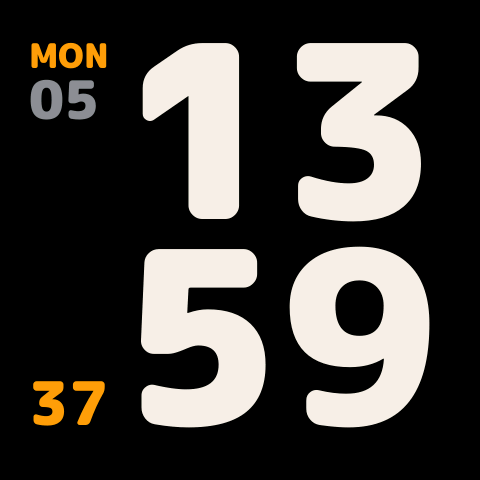
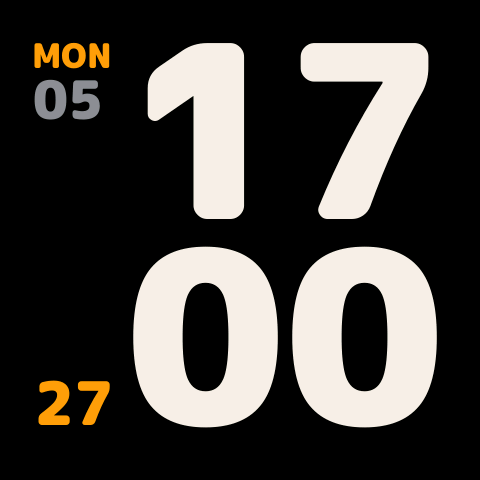
docs: describe the review fixes, new screenshots
README (both languages): 12-character hotspot password, settings
changes only from the page itself (X-Clock header, local host names),
burn-in protection without a valid time and on the setup page, .env
comment rule, the rtc command's phase output, the generator's layout
checks, date width by ink, how the RTC is set, measured memory and
build times. New screenshots of both clock layouts and the setup page.

diff --git a/README.md b/README.md
@@ -13,14 +13,14 @@ The screenshots are read back from a real board with `tools/screenshot.py`; the 
 ## Features
 
 - Hours and minutes in tabular digits, aligned column by column; seconds in small type at the minutes' lower corner.
-- Weekday and day of month at the top of the side column. The day always has two digits and one fixed size, chosen so the two digits together are as wide as "SUN". AM/PM in 12-hour mode.
+- Weekday and day of month at the top of the side column. The day always has two digits and one fixed size, chosen so the widest day is as wide as "SUN"; both sit with their ink on the column's outer edge. AM/PM in 12-hour mode.
 - Time sync over NTP every hour, with up to three servers you can edit (defaults `tock.stdtime.gov.tw`, `time.stdtime.gov.tw`, `pool.ntp.org`). Each sync is also written to the PCF85063 RTC, and the clock starts from the RTC time after a restart, so it keeps working without Wi-Fi.
 - Eight brightness levels, remembered separately for day and night; automatic night dimming (default 23:00–07:00).
 - Screen-off schedule (default 03:00–09:00): the panel is off in that window; a button press or a tap shows the clock for 30 s.
 - Auto-rotation from the accelerometer, or a fixed orientation.
-- Burn-in protection: the whole face drifts 1 px every minute around a 12 × 12 loop (offsets −6…+5 px); every hour the side column swaps sides and the digits move 92 px; warm white instead of pure white; night dimming; screen-off schedule.
-- Wi-Fi setup from a phone: the clock opens its own hotspot and shows a QR code to join it; the setup page opens by itself (captive portal).
-- Settings page at `http://clock.local` in Traditional Chinese or English (follows the browser language; switch at the top right).
+- Burn-in protection: the whole face drifts 1 px every minute around a 12 × 12 loop (offsets −6…+5 px); every hour the side column swaps sides and the digits move 92 px; warm white instead of pure white; night dimming; screen-off schedule. Without a valid time ("--") the face still drifts every minute and swaps sides every hour of uptime; the Wi-Fi setup page drifts too and drops to the night brightness after 10 minutes without a press or tap.
+- Wi-Fi setup from a phone: the clock opens its own hotspot (random 12-character password) and shows a QR code to join it; the setup page opens by itself (captive portal).
+- Settings page at `http://clock.local` in Traditional Chinese or English (follows the browser language; switch at the top right). Changes are accepted only from the page itself, not from other web sites.
 - Indicators: orange `SYNC` when the last NTP sync is more than 24 h old (or none succeeded in the first 5 minutes after start-up), red `BATT` when the battery is at 15 % or less without USB power.
 
 ## Hardware
@@ -52,7 +52,7 @@ While the screen is off, the first press or tap only wakes it. Inside the screen
 
 ## Build and flash
 
-You need Python 3 (tested with 3.14) and a USB-C data cable. On the first build PlatformIO downloads the toolchain into `~/.platformio` (about 7 GB on the test machine), so that run depends on your connection. After that, on the test machine (Apple M4), a full build from a fresh clone took 34 s and a rebuild after a small change about 10 s.
+You need Python 3 (tested with 3.14) and a USB-C data cable. On the first build PlatformIO downloads the toolchain into `~/.platformio` (about 7 GB on the test machine), so that run depends on your connection. After that, on the test machine (Apple M4), a full build from a fresh clone took 34–39 s and a rebuild after a small change about 10 s.
 
 macOS / Linux:
 
@@ -87,14 +87,16 @@ To restore it later, run the same command with `write-flash 0 backup/original-fl
 
 Either of these works; whichever was changed last wins.
 
-1. **`.env` file**: copy `.env.example` to `.env`, fill in `WIFI_SSID` and `WIFI_PASSWORD`, and flash again. Quote values that contain spaces or `#`. The file is never committed; `scripts/pio_env.py` turns it into a header inside the build directory only.
-2. **From a phone**: when there is no Wi-Fi and no valid time, the clock starts its setup hotspot by itself; otherwise hold BOOT for 3 s. Scan the QR code on the screen to join `Clock-XXXX` (the password is random and shown on the screen). The setup page opens by itself; if it does not, open `http://192.168.4.1`.
+1. **`.env` file**: copy `.env.example` to `.env`, fill in `WIFI_SSID` and `WIFI_PASSWORD`, and flash again. Quote values that contain spaces or `#`; outside quotes, a `#` after a space starts a comment. The file is never committed; `scripts/pio_env.py` turns it into a header inside the build directory only.
+2. **From a phone**: when there is no Wi-Fi and no valid time, the clock starts its setup hotspot by itself; otherwise hold BOOT for 3 s. Scan the QR code on the screen to join `Clock-XXXX` (the password is random, 12 characters, and shown on the screen). The setup page opens by itself; if it does not, open `http://192.168.4.1`. If the connection fails, the hotspot stays open so you can correct the settings.
 
 After it has joined your network, the settings page is at `http://clock.local` (or the IP shown on the status page).
 
 ## Settings page
 
 Wi-Fi, time zone, 12/24-hour clock, date on/off, three time servers, day and night brightness, night hours, screen-off hours, hourly side swap and orientation. The page never sends the saved Wi-Fi password back to the browser. Anyone on the same network can open it.
+
+Changes are accepted only from the page itself: it sends an `X-Clock` header that pages from other web sites cannot add, and its API answers only requests addressed to an IP address, a name without dots or a local-only name such as `clock.local` (this also stops DNS rebinding). Open the page at `http://clock.local` or at the clock's IP address.
 
 ## Serial console and screenshots
 
@@ -103,7 +105,7 @@ Wi-Fi, time zone, 12/24-hour clock, date on/off, three time servers, day and nig
 .venv/bin/python tools/screenshot.py shot.png
 ```
 
-Commands (type `help`): `status`, `shot`, `btn boot|key|pwr|touch [short|long]`, `level <1-8>`, `rot auto|0|1|2|3`, `page clock|status|setup`, `settime <unix-epoch>`, `ntp`, `rtc`, `imu`, `reboot`, `factory yes`. The tools find the port by themselves on macOS and Linux; add `--port` to choose one.
+Commands (type `help`): `status`, `shot`, `btn boot|key|pwr|touch [short|long]`, `level <1-8>`, `rot auto|0|1|2|3`, `page clock|status|setup`, `settime <unix-epoch>`, `ntp`, `rtc` (RTC time, and where its tick falls against the system clock's second), `imu`, `reboot`, `factory yes`. The tools find the port by themselves on macOS and Linux; add `--port` to choose one.
 
 ## Using another font
 
@@ -114,7 +116,7 @@ The digits and text are pre-rendered from a TrueType font. To use another one:
 .venv/bin/pio run -t upload
 ```
 
-The layout (column widths, date size, positions) is recalculated for the new font, and the generator stops with an error if any glyph would come closer than 12 px to the screen edge at the largest drift. Check the font's license before publishing it.
+The layout (column widths, date size, positions) is recalculated for the new font. The generator stops with an error if any glyph would come closer than 12 px to the screen edge at the largest drift, or if digits, the two rows or the side-column text would overlap. Check the font's license before publishing it.
 
 ## Specifications
 
@@ -122,19 +124,20 @@ The layout (column widths, date size, positions) is recalculated for the new fon
 |---|---|---|
 | Font | M PLUS Rounded 1c Black | Hours/minutes 176 px cap height, seconds 44 px, weekday 25 px, date 39 px, UI text 22 px; ASCII only |
 | Layout | Digit columns 159 px; baselines y = 225 / 431; side column 80 px | Digits at x = 35 (column right) or x = 127 (column left) |
-| Date | Two tabular digits, 35 px each = 70 px | Same as the ink width of "SUN" (70 px) |
+| Date | Two tabular digits in 35 px cells; the widest day is 68 px of ink | "SUN" is 67 px of ink; the day is placed by its ink on the column edge, like the weekday |
 | Edge margin | ≥ 29 px left, 30 right, 40 top, 41 bottom | At the largest drift, both sides, all digits and labels |
 | Rendering | 480 × 32 px bands, only changed areas redrawn | The ESP32-C6 has no PSRAM for a full 450 KB frame |
 | Time sync | SNTP every 3600 s, up to 3 servers | Host names or IPv4 addresses (letters, digits, `.`, `-`, up to 63 characters); all empty restores the defaults |
 | RTC | PCF85063 kept in UTC, marker byte 0xC7 in its RAM register | Ignored when the marker is missing, the oscillator-stop flag is set, or the time is more than a day before the firmware build date |
+| RTC setting | Written with STOP held; STOP released at x.500 s | The RTC on this board ticks 0.500 s after the release (datasheet: 0.507813–0.507935 s); its tick then falls +1…+3 ms after the system clock's second (`rtc` command) |
 | Brightness | 8 levels: 3, 8, 16, 30, 55, 95, 160, 255 (register 0x51) | Saved to flash 5 s after the last change |
 | Night dimming | Default 23:00–07:00 | Same start and end disables it; may cross midnight |
 | Screen-off schedule | Default on, 03:00–09:00 | Switches only at the window edges; 30 s on after a press; never during Wi-Fi setup |
 | Orientation | QMI8658, > 0.5 g held for 0.7 s | Lying flat keeps the last orientation |
 | Wi-Fi retry | 10 s, doubling up to 5 min | An attempt with no answer for 30 s counts as failed |
 | Wi-Fi power save | Off on USB power, on with battery only | Keeps `clock.local` responsive |
-| Setup hotspot | `Clock-` + last 2 MAC bytes, WPA2, random 8-digit password, 192.168.4.1 | Closes 8 s after a successful connection, or after 10 min idle if Wi-Fi is already configured |
-| Memory | RAM 25.2 % (82,528 / 327,680 B), flash 25.5 % (1,671,292 / 6,553,600 B) | Fresh clone without `.env`, 2026-10-05 |
+| Setup hotspot | `Clock-` + last 2 MAC bytes, WPA2, random 12-character password (31 symbols, no 0/o/1/l/i), 192.168.4.1 | Closes 8 s after a successful connection, or after 10 min without web requests if Wi-Fi is configured and nothing was tried in this session |
+| Memory | RAM 25.2 % (82,592 / 327,680 B), flash 24.4 % (1,601,768 / 6,553,600 B) | Fresh clone without `.env`, 2026-10-05 |
 
 ## Credits
 

diff --git a/README.zh-TW.md b/README.zh-TW.md
@@ -13,14 +13,14 @@
 ## 功能
 
 - 時、分使用等寬數字，上下兩列逐欄對齊；秒數以小字放在分鐘旁的下角。
-- 側欄上方顯示星期與日期。日期固定兩位數、固定字級，兩個數字合起來的寬度與「SUN」相同；12 小時制時加上 AM／PM。
+- 側欄上方顯示星期與日期。日期固定兩位數、固定字級，最寬的日期與「SUN」同寬；星期與日期都以實際字跡貼齊側欄外緣。12 小時制時加上 AM／PM。
 - 每小時透過 NTP 對時，最多 3 個伺服器、可在網頁自行填寫（預設 `tock.stdtime.gov.tw`、`time.stdtime.gov.tw`、`pool.ntp.org`）。每次對時也會寫入 PCF85063 RTC，重新開機時先採用 RTC 的時間，所以沒有 Wi-Fi 也能正常走時。
 - 亮度 8 段，白天、夜間各自記憶；夜間時段自動調暗（預設 23:00–07:00）。
 - 定時關閉螢幕（預設 03:00–09:00）：時段內螢幕關閉，按任一鍵或輕觸會亮 30 秒。
 - 重力感應自動旋轉，或固定為某一方向。
-- 防烙印：整個畫面每分鐘移動 1 像素，走 12 × 12 的封閉迴圈（位移 −6～+5 px）；側欄每小時左右換邊，大數字隨之移動 92 px；使用暖白色而非純白；夜間調暗；定時關閉。
-- 用手機設定 Wi-Fi：時鐘會開啟自己的熱點並在螢幕顯示 QR code，連上後設定頁自動跳出（captive portal）。
-- 設定網頁 `http://clock.local`，可切換繁體中文／English（預設跟隨瀏覽器語言，右上角切換）。
+- 防烙印：整個畫面每分鐘移動 1 像素，走 12 × 12 的封閉迴圈（位移 −6～+5 px）；側欄每小時左右換邊，大數字隨之移動 92 px；使用暖白色而非純白；夜間調暗；定時關閉。沒有有效時間（顯示「--」）時仍每分鐘移動、依開機時數每小時換邊；Wi-Fi 設定頁也會移動，10 分鐘沒有按鍵或輕觸就降到夜間亮度。
+- 用手機設定 Wi-Fi：時鐘會開啟自己的熱點（12 字元隨機密碼）並在螢幕顯示 QR code，連上後設定頁自動跳出（captive portal）。
+- 設定網頁 `http://clock.local`，可切換繁體中文／English（預設跟隨瀏覽器語言，右上角切換）。只接受從本頁送出的修改，其他網站無法代送。
 - 提示：距上次對時超過 24 小時（或開機 5 分鐘內都沒有對時成功）顯示橘色 `SYNC`；只用電池且電量 15% 以下顯示紅色 `BATT`。
 
 ## 使用硬體
@@ -52,7 +52,7 @@
 
 ## 編譯與燒錄
 
-需要 Python 3（以 3.14 測試）與可傳資料的 USB-C 線。第一次編譯時 PlatformIO 會把工具鏈下載到 `~/.platformio`（測試機上約 7 GB），所需時間視網路而定。之後在測試機（Apple M4）上，從全新 clone 完整編譯 34 秒，小改動後重新編譯約 10 秒。
+需要 Python 3（以 3.14 測試）與可傳資料的 USB-C 線。第一次編譯時 PlatformIO 會把工具鏈下載到 `~/.platformio`（測試機上約 7 GB），所需時間視網路而定。之後在測試機（Apple M4）上，從全新 clone 完整編譯 34–39 秒，小改動後重新編譯約 10 秒。
 
 macOS／Linux：
 
@@ -87,14 +87,16 @@ mkdir -p backup
 
 以下兩種擇一，以最後一次修改的為準。
 
-1. **`.env` 檔**：把 `.env.example` 複製成 `.env`，填入 `WIFI_SSID` 和 `WIFI_PASSWORD` 後重新燒錄。值含空白或 `#` 時用雙引號包起來。`.env` 不會進版控，`scripts/pio_env.py` 只會把它轉成 build 目錄裡的標頭檔。
-2. **用手機**：沒有 Wi-Fi 設定且沒有有效時間時，時鐘會自動開啟設定熱點；其他時候長按 BOOT 3 秒。用手機相機掃螢幕上的 QR code 加入 `Clock-XXXX`（密碼每次隨機並顯示在螢幕上），設定頁會自動跳出；沒跳出就開 `http://192.168.4.1`。
+1. **`.env` 檔**：把 `.env.example` 複製成 `.env`，填入 `WIFI_SSID` 和 `WIFI_PASSWORD` 後重新燒錄。值含空白或 `#` 時用雙引號包起來；引號外「空白後的 `#`」之後視為註解。`.env` 不會進版控，`scripts/pio_env.py` 只會把它轉成 build 目錄裡的標頭檔。
+2. **用手機**：沒有 Wi-Fi 設定且沒有有效時間時，時鐘會自動開啟設定熱點；其他時候長按 BOOT 3 秒。用手機相機掃螢幕上的 QR code 加入 `Clock-XXXX`（密碼每次隨機產生、12 個字元，顯示在螢幕上），設定頁會自動跳出；沒跳出就開 `http://192.168.4.1`。連線失敗時熱點會保留，方便修正設定。
 
 連上家中網路後，設定頁在 `http://clock.local`（或狀態頁上顯示的 IP）。
 
 ## 設定網頁
 
 可設定 Wi-Fi、時區、12／24 小時制、是否顯示日期、3 個對時伺服器、白天與夜間亮度、夜間時段、定時關閉時段、側欄每小時換邊、螢幕方向。網頁不會把已儲存的 Wi-Fi 密碼傳回瀏覽器；同一個區網內的任何人都能開啟這個頁面。
+
+只接受從本頁送出的修改：頁面會附上其他網站無法加上的 `X-Clock` 標頭，時鐘的 API 也只回應指向 IP、不含點的名稱或 `clock.local` 這類區網專用名稱的請求（同時擋下 DNS rebinding）。請用 `http://clock.local` 或時鐘的 IP 開啟本頁。
 
 ## 序列埠指令與截圖
 
@@ -103,7 +105,7 @@ mkdir -p backup
 .venv/bin/python tools/screenshot.py shot.png
 ```
 
-指令（輸入 `help` 查看）：`status`、`shot`、`btn boot|key|pwr|touch [short|long]`、`level <1-8>`、`rot auto|0|1|2|3`、`page clock|status|setup`、`settime <unix-epoch>`、`ntp`、`rtc`、`imu`、`reboot`、`factory yes`。在 macOS／Linux 上工具會自動找連接埠；要指定時加上 `--port`。
+指令（輸入 `help` 查看）：`status`、`shot`、`btn boot|key|pwr|touch [short|long]`、`level <1-8>`、`rot auto|0|1|2|3`、`page clock|status|setup`、`settime <unix-epoch>`、`ntp`、`rtc`（RTC 時間，以及它跳秒時落在系統時鐘那一秒的哪裡）、`imu`、`reboot`、`factory yes`。在 macOS／Linux 上工具會自動找連接埠；要指定時加上 `--port`。
 
 ## 更換字型
 
@@ -114,7 +116,7 @@ mkdir -p backup
 .venv/bin/pio run -t upload
 ```
 
-版面（欄寬、日期字級、位置）會依新字型重新計算；如果最大飄移時有字跡離螢幕邊緣不到 12 px，產生器會報錯停止。公開前請確認字型授權。
+版面（欄寬、日期字級、位置）會依新字型重新計算。最大飄移時有字跡離螢幕邊緣不到 12 px，或數字、上下兩列、側欄文字會互相重疊時，產生器會報錯停止。公開前請確認字型授權。
 
 ## 規格
 
@@ -122,19 +124,20 @@ mkdir -p backup
 |---|---|---|
 | 字型 | M PLUS Rounded 1c Black | 時分字高 176 px、秒 44 px、星期 25 px、日期 39 px、介面文字 22 px；只含 ASCII |
 | 版面 | 數字欄寬 159 px；基線 y = 225／431；側欄寬 80 px | 側欄在右時數字 x = 35，在左時 x = 127 |
-| 日期 | 兩位等寬數字，每位 35 px，共 70 px | 等於「SUN」的墨跡寬度 70 px |
+| 日期 | 兩位等寬數字，每格 35 px；最寬的日期字跡 68 px | 「SUN」字跡 67 px；日期和星期一樣，以字跡貼齊側欄外緣 |
 | 邊距 | 左 ≥ 29、右 30、上 40、下 41 px | 最大飄移、左右兩種排列、所有數字與標籤 |
 | 繪圖 | 每次 480 × 32 px 一帶，只重畫變動區域 | ESP32-C6 沒有 PSRAM，放不下 450 KB 的整張畫面 |
 | 對時 | SNTP 每 3600 秒，最多 3 個伺服器 | 主機名稱或 IPv4（英數字、`.`、`-`，最長 63 字元）；三個都留空恢復預設 |
 | RTC | PCF85063 存 UTC，RAM 位元組寫入標記 0xC7 | 沒有標記、振盪器停止旗標為 1、或時間早於韌體編譯日前一天時不採用 |
+| RTC 寫入 | 按住 STOP 寫入，在 x.500 秒放開 | 這片板子的 RTC 在放開後 0.500 秒跳秒（規格書：0.507813–0.507935 秒）；寫入後跳秒落在系統時鐘整秒後 +1～+3 ms（`rtc` 指令實測） |
 | 亮度 | 8 段：3、8、16、30、55、95、160、255（暫存器 0x51） | 最後一次調整 5 秒後才寫入 flash |
 | 夜間調暗 | 預設 23:00–07:00 | 開始＝結束時停用；可跨午夜 |
 | 定時關閉 | 預設啟用，03:00–09:00 | 只在時段開始／結束時切換；按鍵後亮 30 秒；Wi-Fi 設定中不關閉 |
 | 方向 | QMI8658，傾斜 > 0.5 g 且持續 0.7 秒 | 平放時維持上一個方向 |
 | Wi-Fi 重連 | 10 秒起，每次加倍，上限 5 分鐘 | 單次連線 30 秒沒有回應視為失敗 |
 | Wi-Fi 省電 | 接 USB 時關閉，只用電池時開啟 | 讓 `clock.local` 即時回應 |
-| 設定熱點 | `Clock-` + MAC 後 2 bytes，WPA2，8 位數隨機密碼，192.168.4.1 | 連線成功 8 秒後關閉；已有 Wi-Fi 設定時閒置 10 分鐘關閉 |
-| 記憶體 | RAM 25.2%（82,528／327,680 B），flash 25.5%（1,671,292／6,553,600 B） | 2026-10-05，全新 clone、沒有 `.env` 時的編譯結果 |
+| 設定熱點 | `Clock-` + MAC 後 2 bytes，WPA2，12 字元隨機密碼（31 種字元，不含 0/o/1/l/i），192.168.4.1 | 連線成功 8 秒後關閉；已有 Wi-Fi 設定、且這次設定沒有嘗試連線時，10 分鐘沒有網頁請求才關閉 |
+| 記憶體 | RAM 25.2%（82,592／327,680 B），flash 24.4%（1,601,768／6,553,600 B） | 2026-10-05，全新 clone、沒有 `.env` 時的編譯結果 |
 
 ## 出處
 
